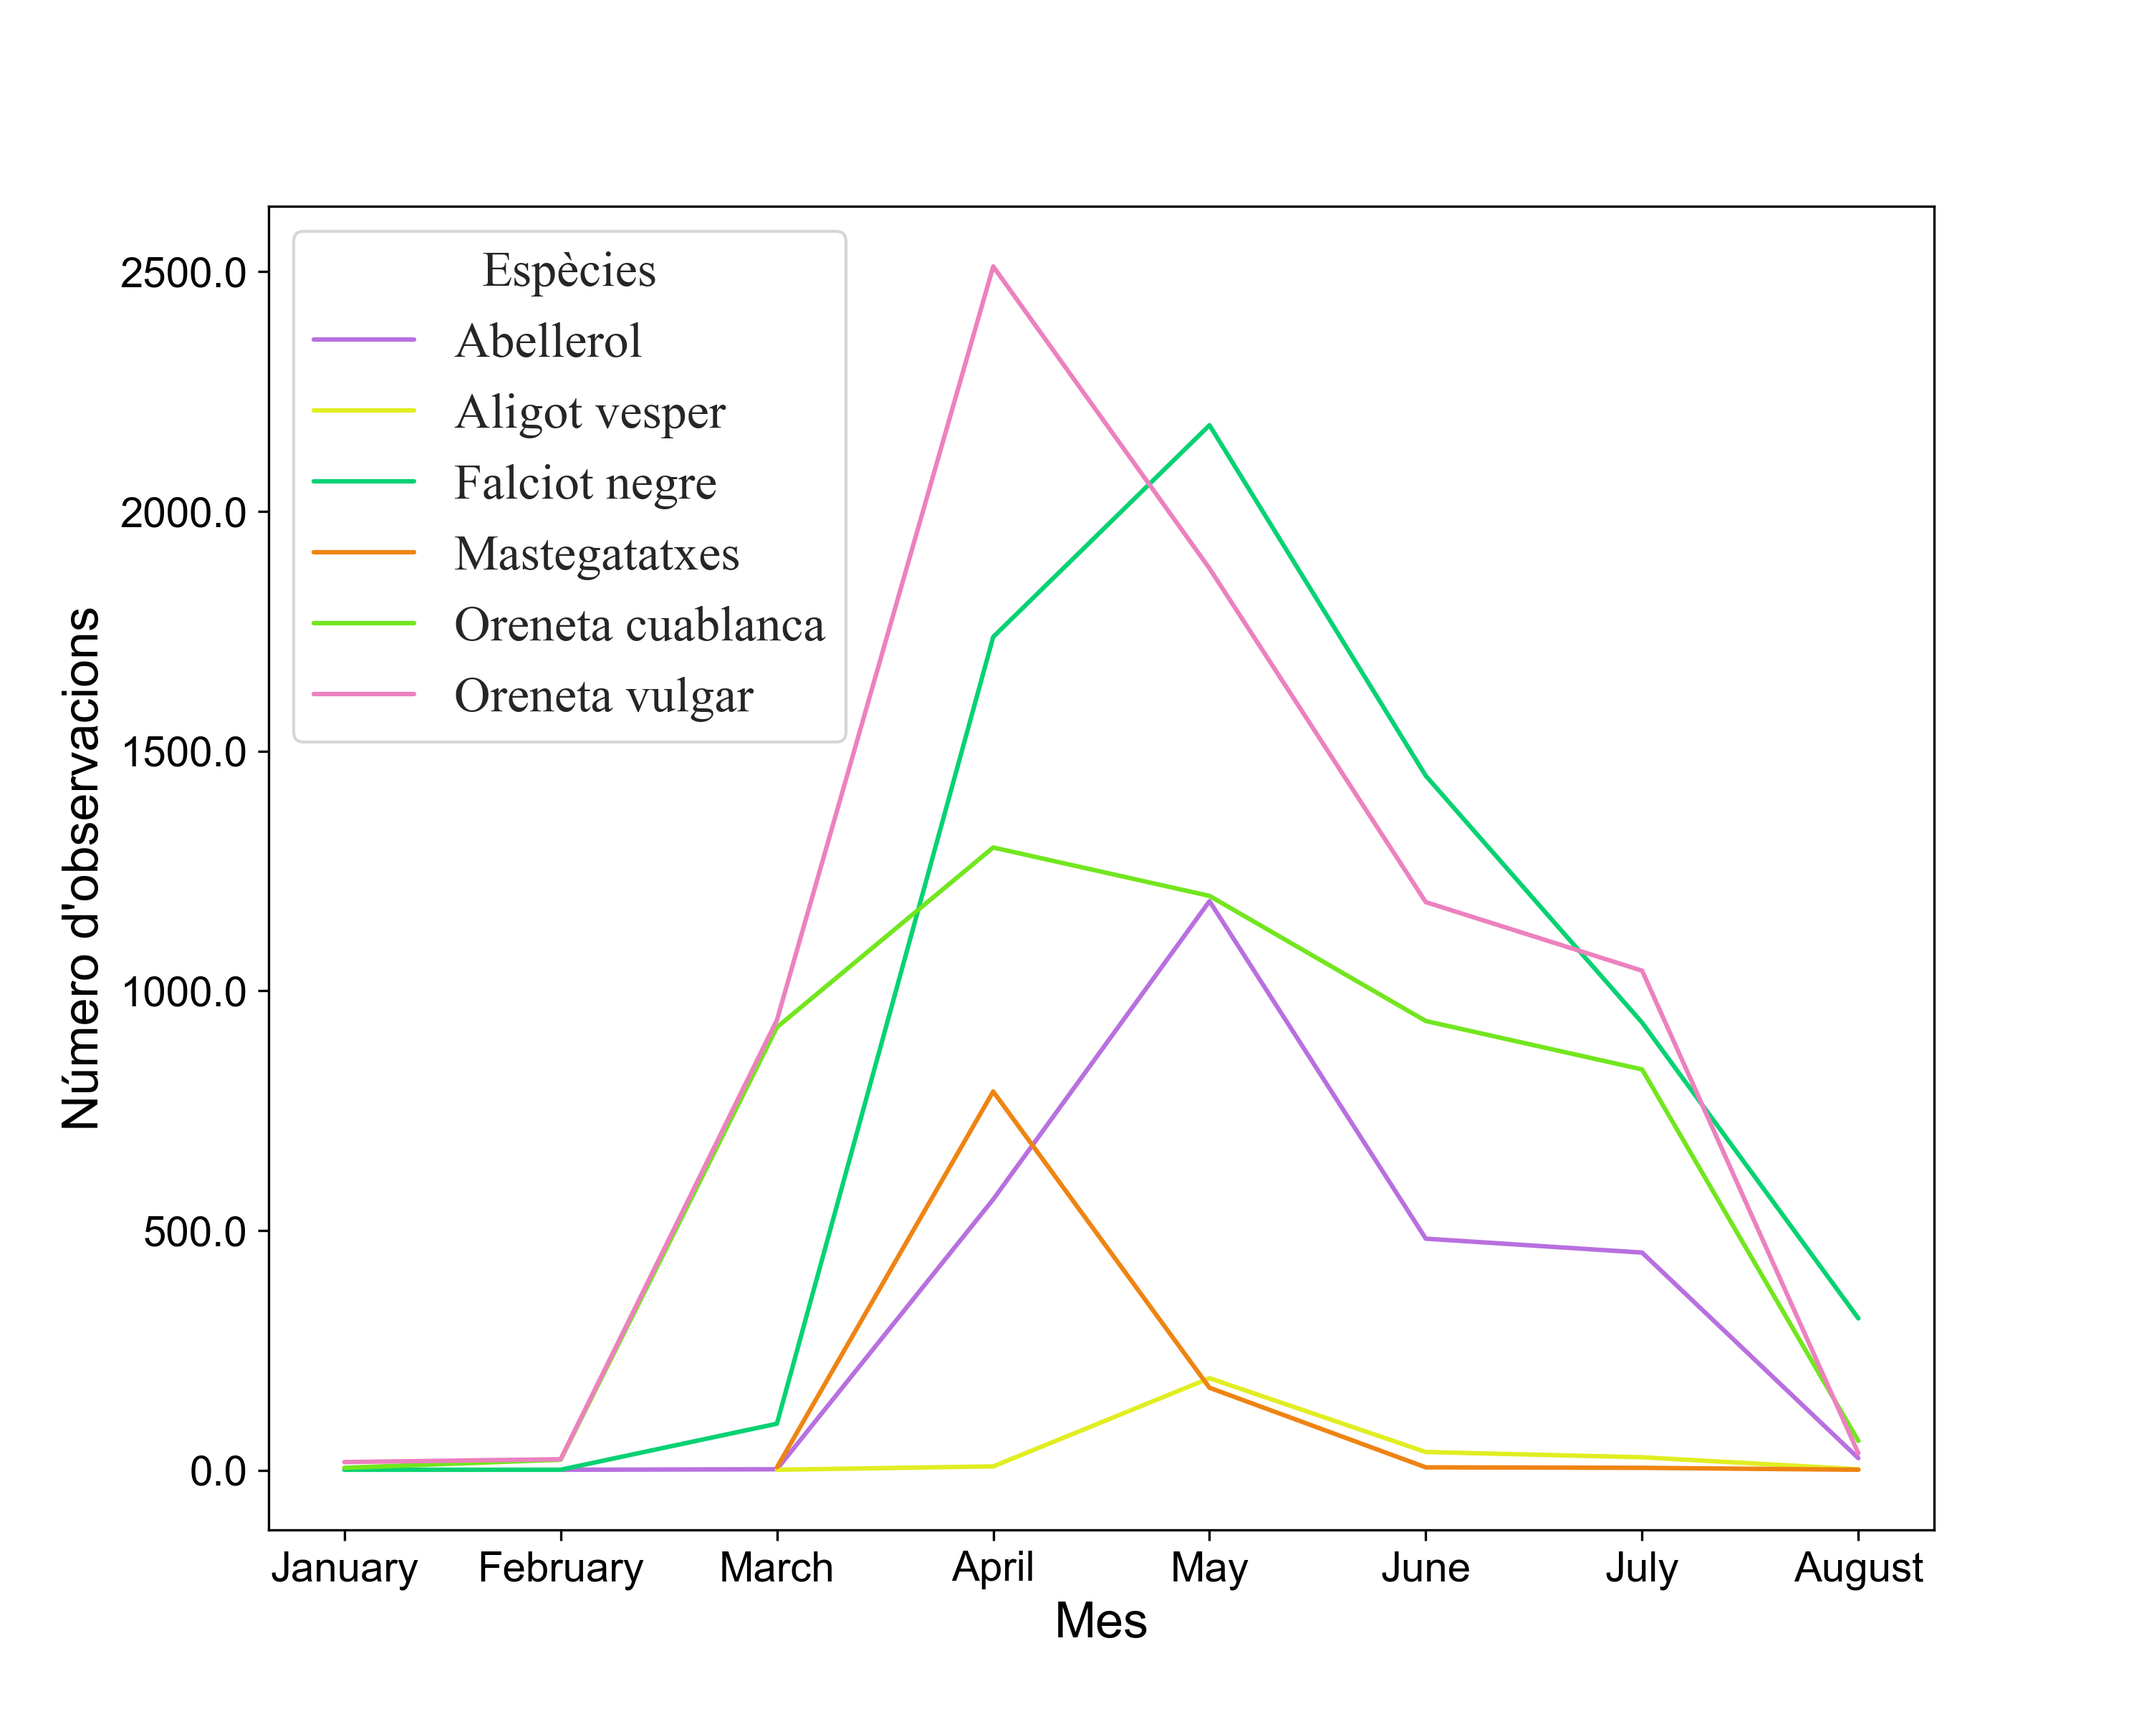
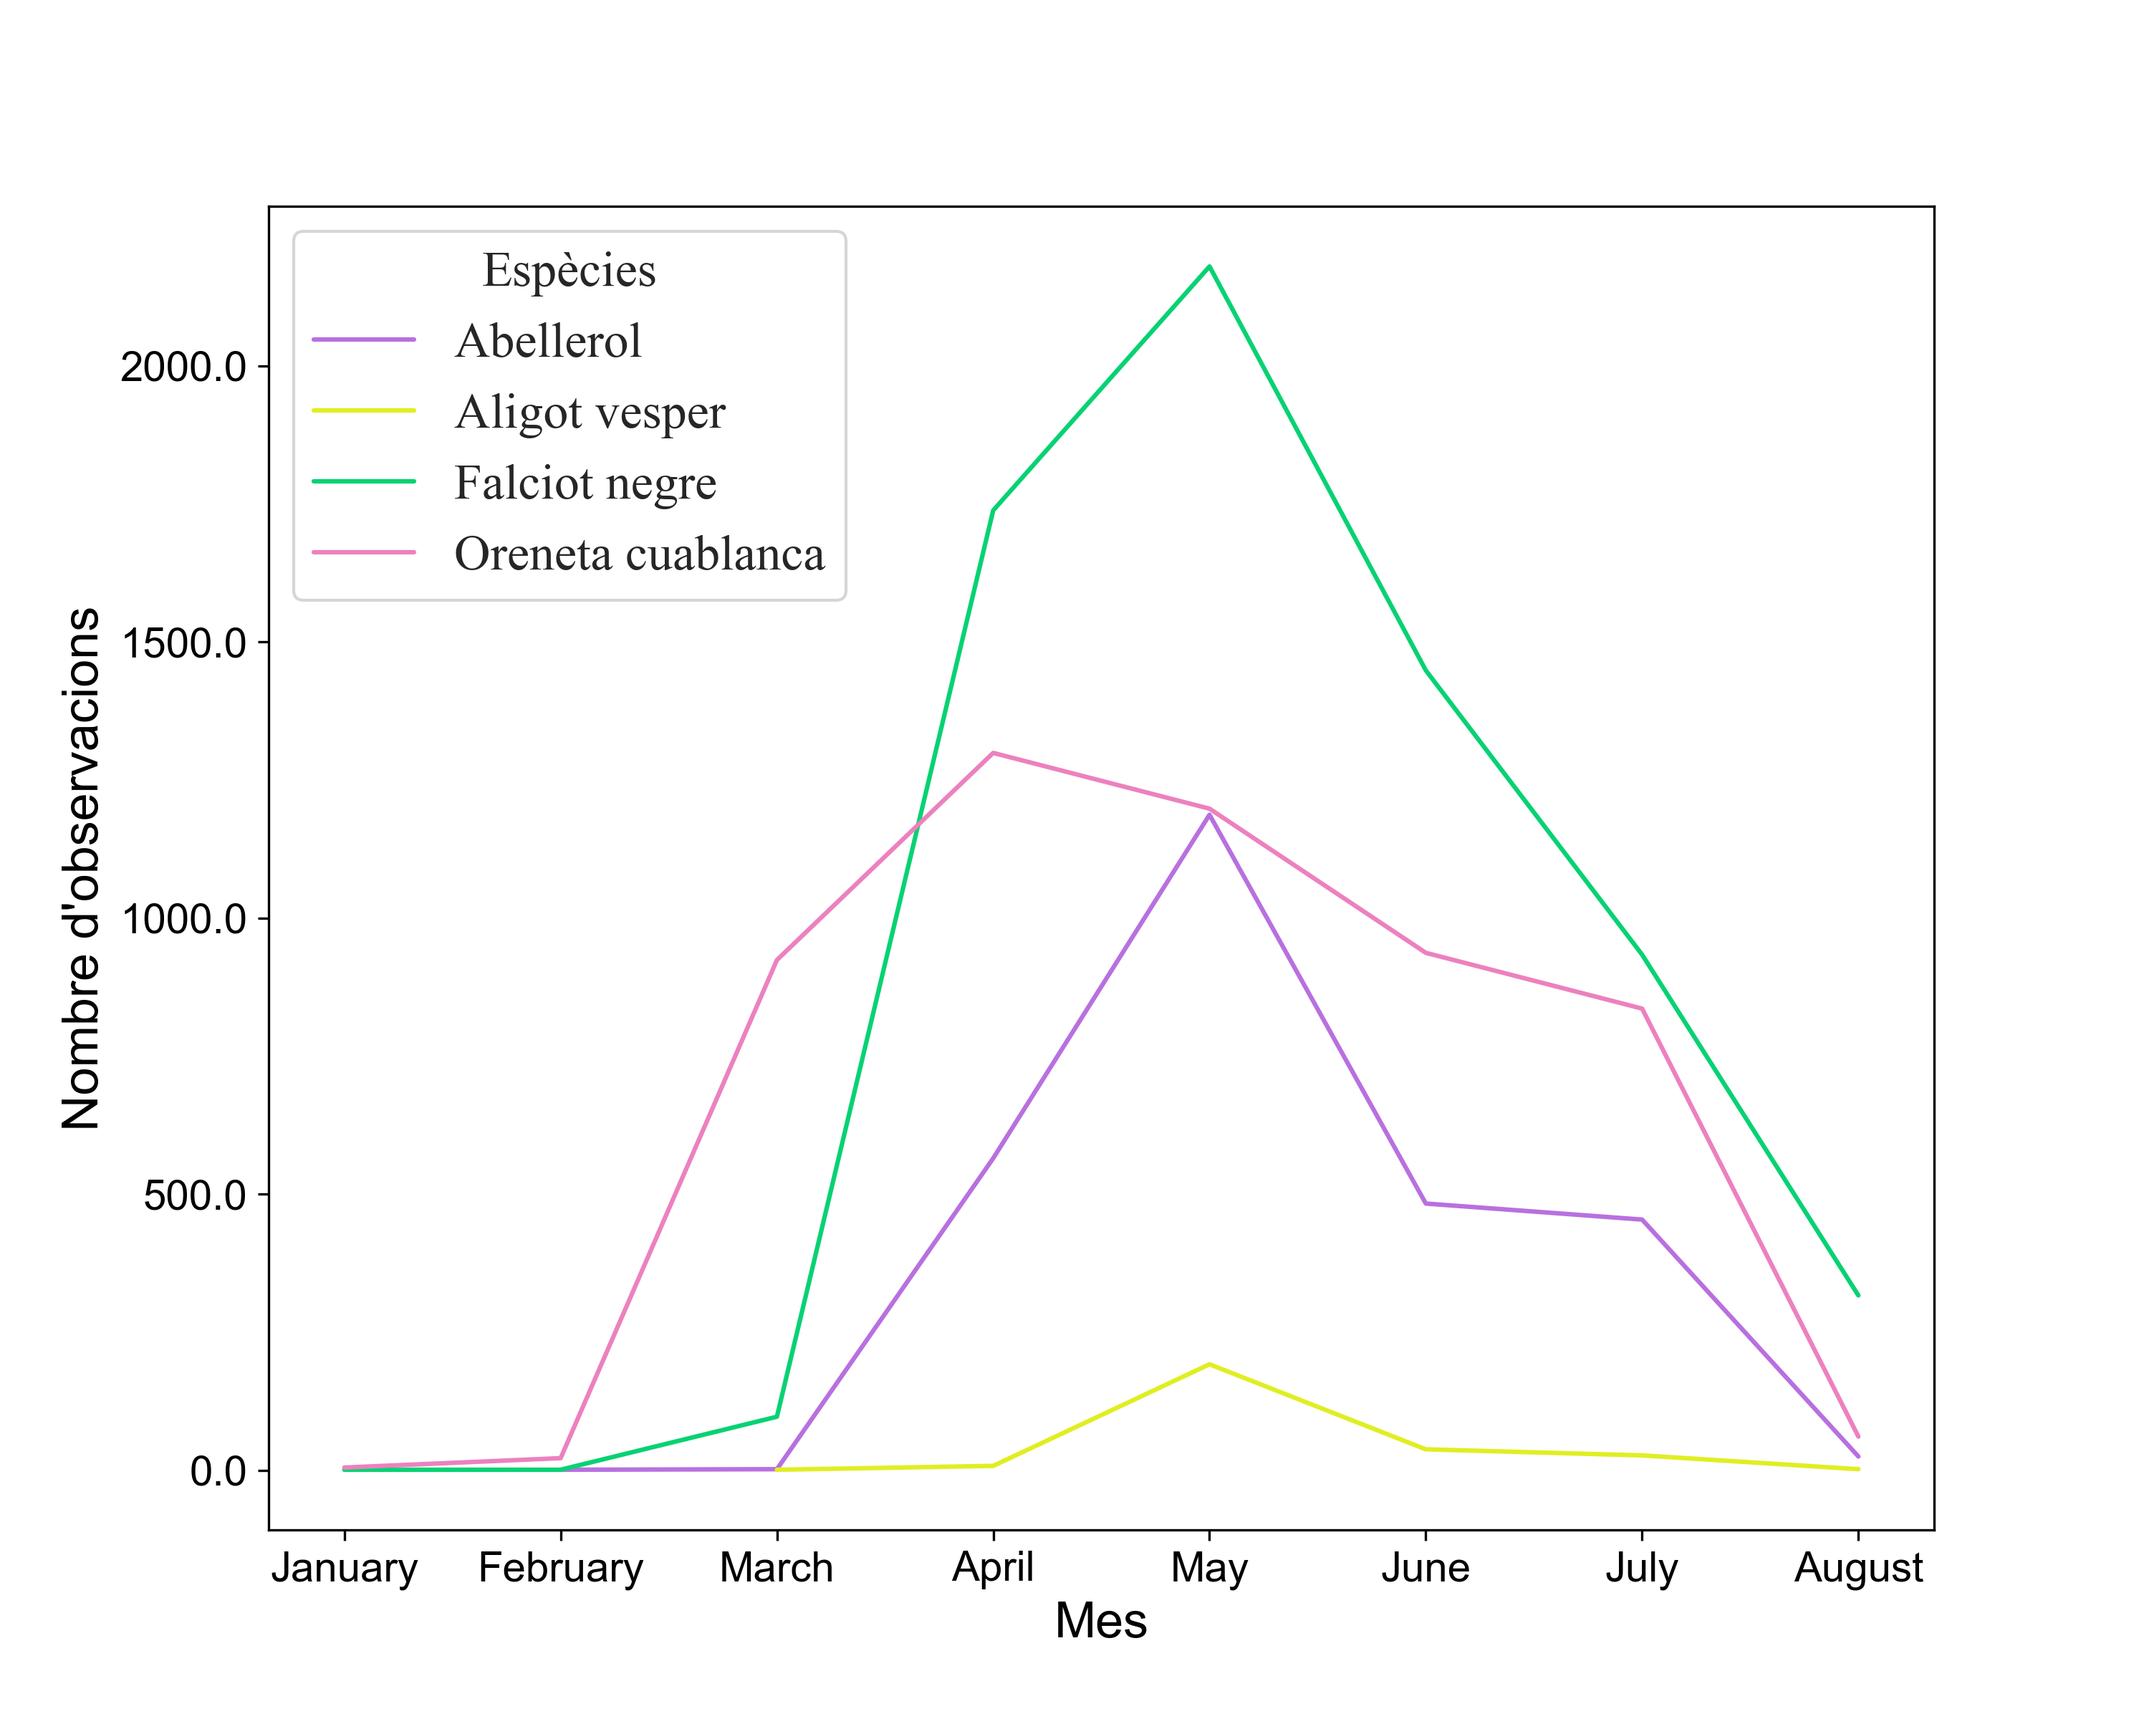
new update

diff --git a/src/plots.py b/src/plots.py
@@ -20,8 +20,8 @@ colors = {
     "aligot": "#e0ee22",
     "falsiot": "#07d273",
     "mastegatatxes": "#ee8413",
-    "oreneta_c": "#72e61f",
-    "oreneta_v": "#ec81bf"
+    "oreneta_c": "#ec81bf",
+    "oreneta_v": "#72e61f"
 }
 
 names = {
@@ -33,7 +33,7 @@ names = {
     "oreneta_v": "Oreneta vulgar"
 }
 
-for esp in ["abellerol", "aligot", "falsiot", "mastegatatxes", "oreneta_c", "oreneta_v"]:
+for esp in ["abellerol", "aligot", "falsiot", "oreneta_c"]:
     data = pd.read_csv(f"data/{esp}/{esp}_plot.csv")
     birds_grouped = data.groupby(by=["month", "year"], dropna=False).sum()
     birds_grouped["month_year"] = birds_grouped.index
@@ -55,7 +55,7 @@ b.set_xticklabels(["January", "February", "March", "April", "May", "June", "July
 b.set_yticklabels(b.get_yticks(), fontsize= "small")
 
 b.set_xlabel("Mes", fontsize="medium")
-b.set_ylabel("Número d'observacions",fontsize="medium")
+b.set_ylabel("Nombre d'observacions",fontsize="medium")
 
 # my_colors = list(islice(cycle(['b', 'r', 'g', 'y', 'k', 'p']), None, len("year")))
 

diff --git a/src/data_clenaning.py b/src/data_clenaning.py
@@ -2,10 +2,10 @@ import pandas as pd
 from trans2UTM import project
 
 #Which species
-esp = "abellerol"
+esp = "aligot"
 
 # Read data from different files of species.
-df = pd.read_csv(f"../data/{esp}/abellerol.csv", sep=";")
+df = pd.read_csv(f"../data/{esp}/aligot.csv", sep=";")
 
 # Change dtype
 df["Data_obs"] = pd.to_datetime(df["Data_obs"])
@@ -18,7 +18,7 @@ df["year"] = df["Data_obs"].dt.year
 if esp in ["abellerol", "falsiot"]:
     df = df[df["year"] == 2022]
 
-df["name_month"] = df.apply(lambda row: f"falsiot_{row['month']}", axis=1)
+df["name_month"] = df.apply(lambda row: f"oreneta_v_{row['month']}", axis=1)
 
 
 df = df[(2 <= df["month"]) & (df["month"] <= 6)]
@@ -60,7 +60,7 @@ df["y_UTM"] = y_utm_list
 # # Save dataframe in csv file.
 
 df = df[["name_month", "x_UTM", "y_UTM"]]
-df.to_csv(f"data/falsiot/falsiot_maxent.csv", index=False)
+df.to_csv(f"data/oreneta_v/oreneta_v_maxent.csv", index=False)
 
 
 

diff --git a/src/main.py b/src/main.py
@@ -6,7 +6,7 @@ from shapely.geometry import Point, MultiLineString
 from shapely.ops import polygonize
 from sklearn.model_selection import train_test_split
 
-input = "data/falsiot/falsiot_maxent.csv"
+input = "data/oreneta_v/oreneta_v_maxent.csv"
 
 data = pd.read_csv(input)
 points = gpd.GeoDataFrame({"x": data["x_UTM"].values, "y": data["y_UTM"].values})
